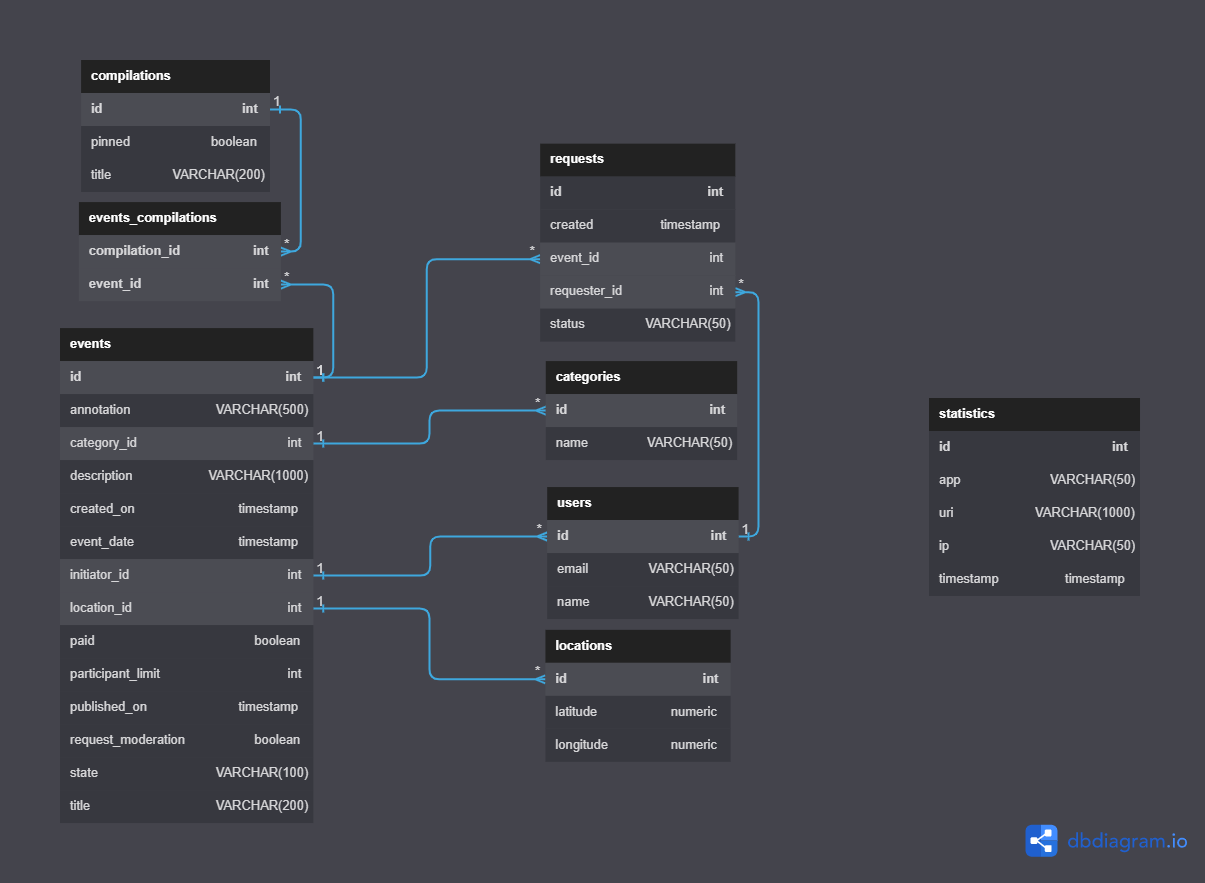
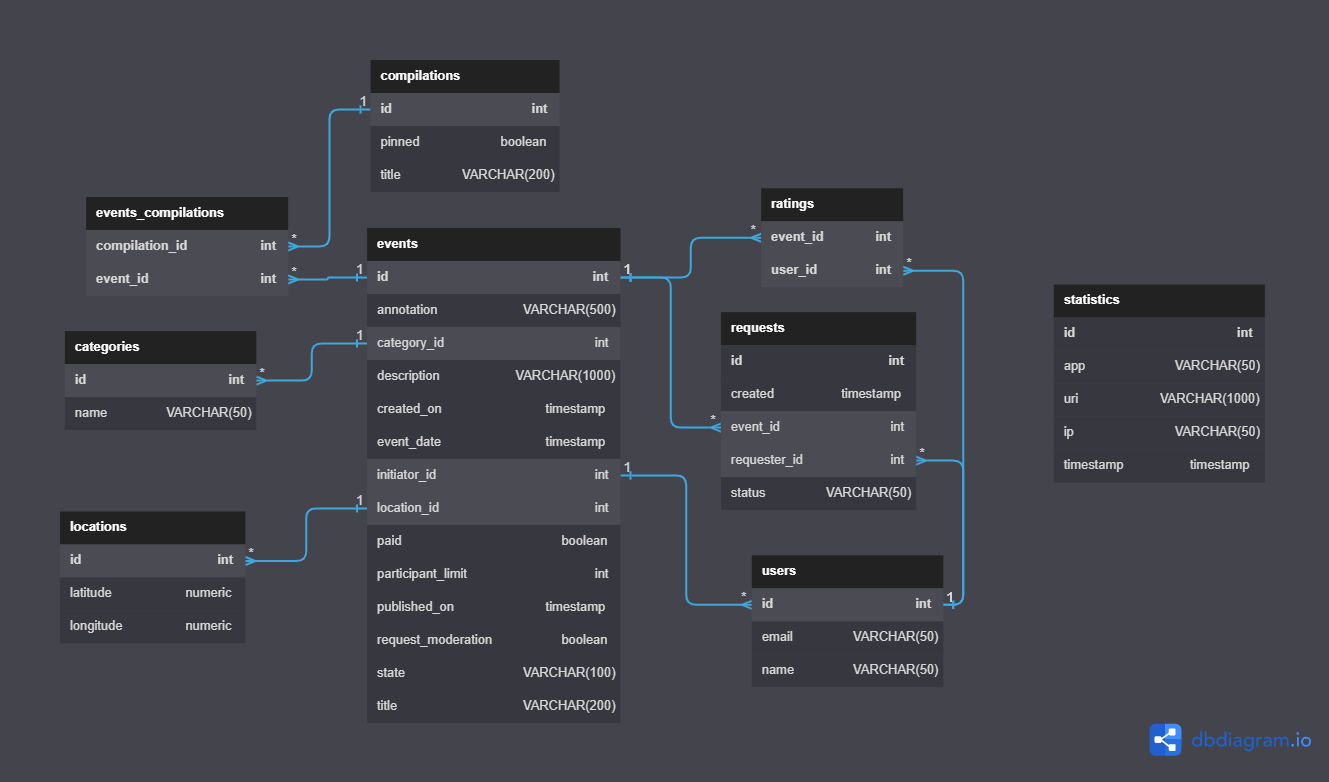
feat: add ratings

diff --git a/main/src/main/java/ru/practicum/ExploreWithMe/service/EventServiceImpl.java b/main/src/main/java/ru/practicum/ExploreWithMe/service/EventServiceImpl.java
@@ -253,6 +253,57 @@ public class EventServiceImpl implements EventService {
         }
     }
 
+    @Override
+    @Transactional
+    public EventFullDto addLike(long userId, long eventId) {
+        Event event = eventRepository.findById(eventId).orElseThrow(() -> new EventNotFoundException(
+                String.format("Event with id=%s was not found.", eventId)));
+        User user = userRepository.findById(userId).orElseThrow(() -> new UserNotFoundException(
+                String.format("User with id=%s was not found.", userId)));
+        if (event.getInitiator().getId() != userId) {
+            if (event.getEventDate().isBefore(LocalDateTime.now())) {
+                if (requestRepository.findParticipationRequestByEventIdAndRequesterId(eventId, userId)
+                        .orElseThrow(() -> new AddLikeException(String.format(
+                                "User id=%s did not participate in the event id=%s", userId, eventId)))
+                        .getStatus().equals(Status.CONFIRMED)) {
+                    event.getLikes().add(user);
+                    log.info("Пользователь id={} поставил лайк событию id={}", userId, eventId);
+                    return getStats(List.of(eventRepository.save(event))).get(0);
+                } else throw new AddLikeException(String.format(
+                        "User id=%s did not participate in the event id=%s", userId, eventId));
+            } else throw new AddLikeException("It is impossible to evaluate events that have not yet happened");
+        } else throw new AddLikeException(String.format("Initiator id=%s can not liked his event id=%s",
+                userId, eventId));
+    }
+
+    @Override
+    @Transactional
+    public void deleteLike(long userId, long eventId) {
+        Event event = eventRepository.findById(eventId).orElseThrow(() -> new EventNotFoundException(
+                String.format("Event with id=%s was not found.", eventId)));
+        User user = userRepository.findById(userId).orElseThrow(() -> new UserNotFoundException(
+                String.format("User with id=%s was not found.", userId)));
+        if (event.getLikes().contains(user)) {
+            event.getLikes().remove(user);
+            log.info("Пользователь id={} удалил лайк с события id={}", userId, eventId);
+            eventRepository.save(event);
+        } else {
+            throw new DeleteLikeException(String.format(
+                    "Can't removed a like from an event id=%s that the user is=%s hasn't rated", eventId, userId));
+        }
+    }
+
+    @Transactional(readOnly = true)
+    @Override
+    public Collection<EventShortDto> getPopularEvents(int from, int size) {
+        int page = from / size;
+        Pageable pageable = PageRequest.of(page, size);
+        log.info("Запрошены популярные события");
+        return getStats(eventRepository.findPopularEvents(pageable).getContent()).stream()
+                .map(EventMapper::toEventShortDto)
+                .collect(Collectors.toList());
+    }
+
     /*
      *Метод заполняет значение поля views (только для опубликованных событий).
      *Заполняет количество одобренных запросов для событий.
@@ -281,6 +332,30 @@ public class EventServiceImpl implements EventService {
         return result;
     }
 
+    /*
+     * Метод сохраняет локацию в БД. В случае когда в БД уже есть локация с такими координатами,
+     * то метод присваивает событию уде существующую локацию
+     */
+    @Transactional
+    protected void softSaveLocation(Event event) {
+        try {
+            eventRepository.save(event);
+        } catch (DataIntegrityViolationException e) {
+            Location location = getLocation(event);
+            event.setLocation(location);
+            eventRepository.save(event);
+        }
+    }
+
+    //    Метод запрашивает существующую локацию для добавления её к событию
+    @Transactional(readOnly = true)
+    protected Location getLocation(Event event) {
+        return locationRepository.findLocationByLatitudeAndLongitude(
+                event.getLocation().getLatitude(),
+                event.getLocation().getLongitude()
+        );
+    }
+
     //    Метод для создания динамического запроса
     private Query getQuery(EventParam param) {
         CriteriaBuilder criteriaBuilder = entityManager.getCriteriaBuilder();
@@ -304,30 +379,6 @@ public class EventServiceImpl implements EventService {
             throw new RequestEventException(String.format(
                     "Sorting can be only %s or %s", EventSort.EVENT_DATE, EventSort.VIEWS));
         }
-    }
-
-    /*
-     * Метод сохраняет локацию в БД. В случае когда в БД уже есть локация с такими координатами,
-     * то метод присваивает событию уде существующую локацию
-     */
-    @Transactional
-    protected void softSaveLocation(Event event) {
-        try {
-            eventRepository.save(event);
-        } catch (DataIntegrityViolationException e) {
-            Location location = getLocation(event);
-            event.setLocation(location);
-            eventRepository.save(event);
-        }
-    }
-
-    //    Метод запрашивает существующую локацию для добавления её к событию
-    @Transactional(readOnly = true)
-    protected Location getLocation(Event event) {
-        return locationRepository.findLocationByLatitudeAndLongitude(
-                event.getLocation().getLatitude(),
-                event.getLocation().getLongitude()
-        );
     }
 
     //    Метод создает предикаты в зависимости для динамического запроса в зависимости от входных данных

diff --git a/main/src/main/java/ru/practicum/ExploreWithMe/mapper/EventMapper.java b/main/src/main/java/ru/practicum/ExploreWithMe/mapper/EventMapper.java
@@ -27,7 +27,7 @@ public class EventMapper {
     }
 
     public static EventFullDto toEventFullDto(Event event) {
-        EventFullDto response = new EventFullDto(
+        EventFullDto eventFullDto = new EventFullDto(
                 event.getId(),
                 event.getAnnotation(),
                 event.getDescription(),
@@ -43,15 +43,18 @@ public class EventMapper {
                 LocationMapper.toLocationDto(event.getLocation())
         );
         if (event.getPublishedOn() != null) {
-            response.setPublishedOn(
+            eventFullDto.setPublishedOn(
                     event.getPublishedOn().format(DateTimeFormatter.ofPattern("yyyy-MM-dd HH:mm:ss"))
             );
         }
-        return response;
+        if (event.getLikes() != null) {
+            eventFullDto.setLikes(event.getLikes().size());
+        }
+        return eventFullDto;
     }
 
     public static EventShortDto toEventShortDto(Event event) {
-        return new EventShortDto(
+        EventShortDto eventShortDto = new EventShortDto(
                 event.getAnnotation(),
                 event.getCategory(),
                 event.getEventDate().format(DateTimeFormatter.ofPattern("yyyy-MM-dd HH:mm:ss")),
@@ -60,6 +63,10 @@ public class EventMapper {
                 event.getPaid(),
                 event.getTitle()
         );
+        if (event.getLikes() != null) {
+            eventShortDto.setLikes(event.getLikes().size());
+        }
+        return eventShortDto;
     }
 
     public static Event toEvent(UpdateEventRequest updateEventRequest) {
@@ -74,7 +81,7 @@ public class EventMapper {
     }
 
     public static EventShortDto toEventShortDto(EventFullDto eventFullDto) {
-        return new EventShortDto(
+        EventShortDto eventShortDto = new EventShortDto(
                 eventFullDto.getAnnotation(),
                 eventFullDto.getCategory(),
                 eventFullDto.getEventDate(),
@@ -84,5 +91,7 @@ public class EventMapper {
                 eventFullDto.getTitle(),
                 eventFullDto.getViews()
         );
+        eventShortDto.setLikes(eventFullDto.getLikes());
+        return eventShortDto;
     }
 }

diff --git a/main/src/main/java/ru/practicum/ExploreWithMe/controller/UserController.java b/main/src/main/java/ru/practicum/ExploreWithMe/controller/UserController.java
@@ -2,6 +2,7 @@ package ru.practicum.ExploreWithMe.controller;
 
 import org.springframework.web.bind.annotation.*;
 import ru.practicum.ExploreWithMe.model.User;
+import ru.practicum.ExploreWithMe.model.dto.UserDtoLikes;
 import ru.practicum.ExploreWithMe.service.UserService;
 
 import javax.validation.Valid;
@@ -10,7 +11,6 @@ import javax.validation.constraints.PositiveOrZero;
 import java.util.Collection;
 
 @RestController
-@RequestMapping("/admin/users")
 public class UserController {
     private final UserService userService;
 
@@ -18,12 +18,12 @@ public class UserController {
         this.userService = userService;
     }
 
-    @PostMapping
+    @PostMapping("/admin/users")
     public User createUser(@RequestBody @Valid User user) {
         return userService.createUser(user);
     }
 
-    @GetMapping
+    @GetMapping("/admin/users")
     public Collection<User> getUsers(
             @RequestParam(required = false) int[] ids,
             @RequestParam(defaultValue = "0") @PositiveOrZero int from,
@@ -32,8 +32,14 @@ public class UserController {
         return userService.getUsers(ids, from, size);
     }
 
-    @DeleteMapping("/{userId}")
+    @DeleteMapping("/admin/users/{userId}")
     public void deleteUser(@PathVariable long userId) {
         userService.deleteUser(userId);
+    }
+
+    @GetMapping("/users/popular")
+    public Collection<UserDtoLikes> getPopularUsers(@RequestParam(defaultValue = "0") @PositiveOrZero int from,
+                                                    @RequestParam(defaultValue = "10") @Positive int size) {
+        return userService.getPopularUsers(from, size);
     }
 }

diff --git a/main/src/main/java/ru/practicum/ExploreWithMe/controller/EventController.java b/main/src/main/java/ru/practicum/ExploreWithMe/controller/EventController.java
@@ -117,4 +117,22 @@ public class EventController {
                         request.getRemoteAddr(),
                         LocalDateTime.now().format(DateTimeFormatter.ofPattern("yyyy-MM-dd HH:mm:ss"))));
     }
+
+    @PutMapping("/users/{userId}/events/{eventId}/like")
+    public EventFullDto addLike(@PathVariable long userId,
+                                @PathVariable long eventId) {
+        return eventService.addLike(userId, eventId);
+    }
+
+    @DeleteMapping("/users/{userId}/events/{eventId}/like")
+    public void deleteLike(@PathVariable long userId,
+                           @PathVariable long eventId) {
+        eventService.deleteLike(userId, eventId);
+    }
+
+    @GetMapping("/events/popular")
+    public Collection<EventShortDto> getAllUserEvents(@RequestParam(defaultValue = "0") @PositiveOrZero int from,
+                                                      @RequestParam(defaultValue = "10") @Positive int size) {
+        return eventService.getPopularEvents(from, size);
+    }
 }

diff --git a/main/src/main/java/ru/practicum/ExploreWithMe/service/UserServiceImpl.java b/main/src/main/java/ru/practicum/ExploreWithMe/service/UserServiceImpl.java
@@ -7,6 +7,7 @@ import org.springframework.stereotype.Service;
 import org.springframework.transaction.annotation.Transactional;
 import ru.practicum.ExploreWithMe.exception.UserNotFoundException;
 import ru.practicum.ExploreWithMe.model.User;
+import ru.practicum.ExploreWithMe.model.dto.UserDtoLikes;
 import ru.practicum.ExploreWithMe.repository.UserRepository;
 
 import java.util.Arrays;
@@ -57,5 +58,13 @@ public class UserServiceImpl implements UserService {
         } else {
             throw new UserNotFoundException(String.format("User with id=%s was not found.", userId));
         }
+    }
+
+    @Override
+    public Collection<UserDtoLikes> getPopularUsers(int from, int size) {
+        int page = from / size;
+        Pageable pageable = PageRequest.of(page, size);
+        log.info("Запрошены популярные инициаторы событий");
+        return userRepository.findPopularUsers(pageable).getContent();
     }
 }

diff --git a/main/src/main/java/ru/practicum/ExploreWithMe/repository/UserRepository.java b/main/src/main/java/ru/practicum/ExploreWithMe/repository/UserRepository.java
@@ -1,7 +1,17 @@
 package ru.practicum.ExploreWithMe.repository;
 
+import org.springframework.data.domain.Page;
+import org.springframework.data.domain.Pageable;
 import org.springframework.data.jpa.repository.JpaRepository;
+import org.springframework.data.jpa.repository.Query;
 import ru.practicum.ExploreWithMe.model.User;
+import ru.practicum.ExploreWithMe.model.dto.UserDtoLikes;
 
 public interface UserRepository extends JpaRepository<User, Long> {
+
+    @Query(value = "select new ru.practicum.ExploreWithMe.model.dto.UserDtoLikes " +
+            "(e.initiator.id, e.initiator.name, sum(size(e.likes))) " +
+            "from Event e group by e.initiator.id, e.initiator.name " +
+            "order by sum(e.likes.size) desc")
+    Page<UserDtoLikes> findPopularUsers(Pageable pageable);
 }

diff --git a/main/src/main/java/ru/practicum/ExploreWithMe/controller/ErrorHandler.java b/main/src/main/java/ru/practicum/ExploreWithMe/controller/ErrorHandler.java
@@ -73,4 +73,14 @@ public class ErrorHandler {
     public ResponseEntity<Error> catchDeleteCategoryException(DeleteCategoryException e) {
         return new ResponseEntity<>(new Error(HttpStatus.BAD_REQUEST, e.getMessage()), HttpStatus.BAD_REQUEST);
     }
+
+    @ExceptionHandler
+    public ResponseEntity<Error> catchAddLikeException(AddLikeException e) {
+        return new ResponseEntity<>(new Error(HttpStatus.BAD_REQUEST, e.getMessage()), HttpStatus.BAD_REQUEST);
+    }
+
+    @ExceptionHandler
+    public ResponseEntity<Error> catchDeleteLikeException(DeleteLikeException e) {
+        return new ResponseEntity<>(new Error(HttpStatus.BAD_REQUEST, e.getMessage()), HttpStatus.BAD_REQUEST);
+    }
 }

diff --git a/main/src/main/java/ru/practicum/ExploreWithMe/model/User.java b/main/src/main/java/ru/practicum/ExploreWithMe/model/User.java
@@ -7,6 +7,7 @@ import javax.persistence.*;
 import javax.validation.constraints.Email;
 import javax.validation.constraints.NotEmpty;
 import javax.validation.constraints.NotNull;
+import java.util.Set;
 
 @Getter
 @Setter
@@ -21,4 +22,11 @@ public class User {
     private String name;
     @Email
     private String email;
+    @ManyToMany
+    @JoinTable(
+            name = "ratings",
+            joinColumns = @JoinColumn(name = "user_id"),
+            inverseJoinColumns = @JoinColumn(name = "event_id")
+    )
+    private Set<Event> likes;
 }

diff --git a/main/src/main/java/ru/practicum/ExploreWithMe/model/Event.java b/main/src/main/java/ru/practicum/ExploreWithMe/model/Event.java
@@ -46,6 +46,13 @@ public class Event {
     private User initiator;
     @ManyToOne(fetch = FetchType.EAGER, cascade = CascadeType.ALL)
     private Location location;
+    @ManyToMany()
+    @JoinTable(
+            name = "ratings",
+            joinColumns = @JoinColumn(name = "event_id"),
+            inverseJoinColumns = @JoinColumn(name = "user_id")
+    )
+    private Set<User> likes;
 
     public Event(
             String annotation,

diff --git a/main/src/main/java/ru/practicum/ExploreWithMe/service/UserService.java b/main/src/main/java/ru/practicum/ExploreWithMe/service/UserService.java
@@ -1,6 +1,7 @@
 package ru.practicum.ExploreWithMe.service;
 
 import ru.practicum.ExploreWithMe.model.User;
+import ru.practicum.ExploreWithMe.model.dto.UserDtoLikes;
 
 import java.util.Collection;
 
@@ -10,4 +11,6 @@ public interface UserService {
     Collection<User> getUsers(int[] ids, int from, int size);
 
     void deleteUser(long userId);
+
+    Collection<UserDtoLikes> getPopularUsers(int from, int size);
 }

diff --git a/main/src/main/java/ru/practicum/ExploreWithMe/service/EventService.java b/main/src/main/java/ru/practicum/ExploreWithMe/service/EventService.java
@@ -27,4 +27,10 @@ public interface EventService {
     Collection<EventShortDto> searchEventsPublic(EventParam param, EndpointHitDto endpointHitDto, int from, int size);
 
     EventFullDto getEvent(long id, EndpointHitDto endpointHitDto);
+
+    EventFullDto addLike(long userId, long eventId);
+
+    void deleteLike(long userId, long eventId);
+
+    Collection<EventShortDto> getPopularEvents(int from, int size);
 }

diff --git a/main/src/main/java/ru/practicum/ExploreWithMe/repository/RequestRepository.java b/main/src/main/java/ru/practicum/ExploreWithMe/repository/RequestRepository.java
@@ -22,4 +22,6 @@ public interface RequestRepository extends JpaRepository<ParticipationRequest, L
     Optional<ParticipationRequest> findParticipationRequestByEventIdAndId(long eventId, long requestId);
 
     List<ParticipationRequest> findAllByEventIdAndStatus(long eventId, String status);
+
+    Optional<ParticipationRequest> findParticipationRequestByEventIdAndRequesterId(long eventId, long userId);
 }
